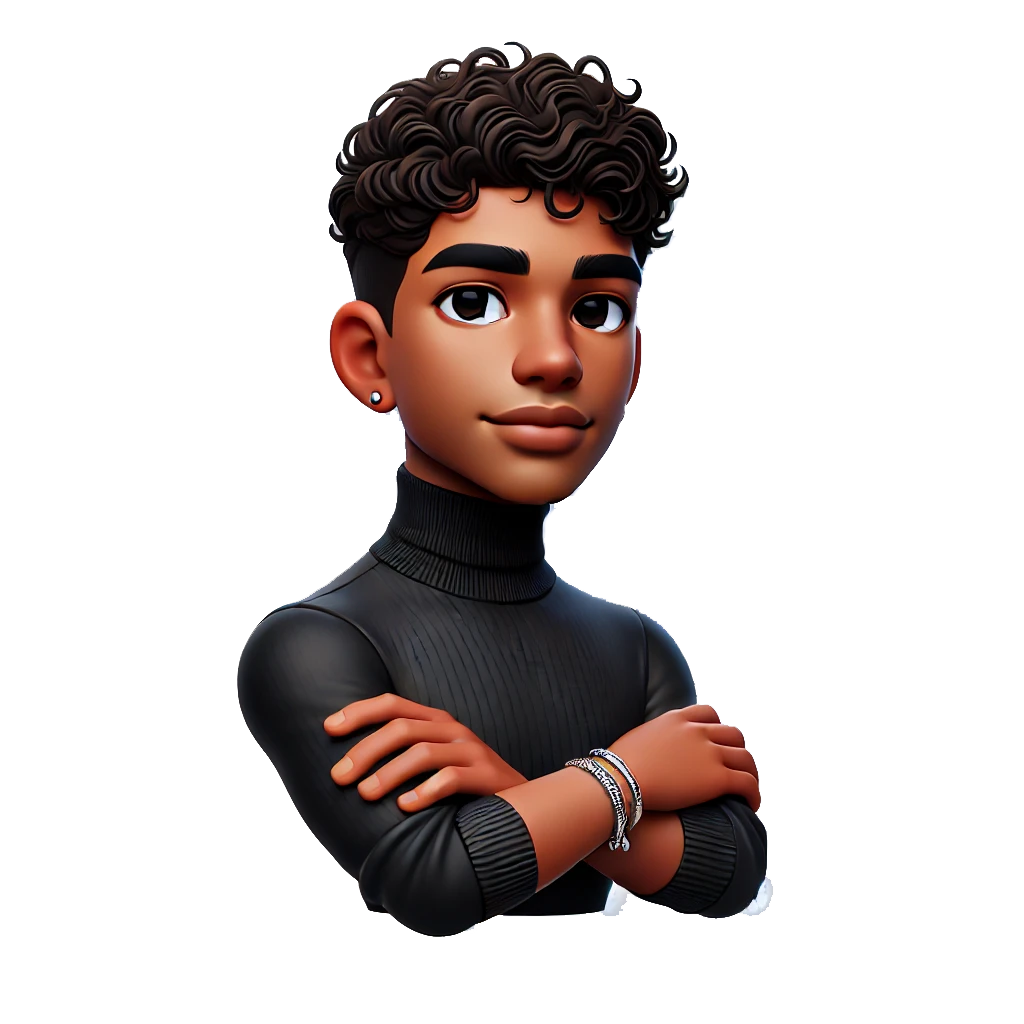
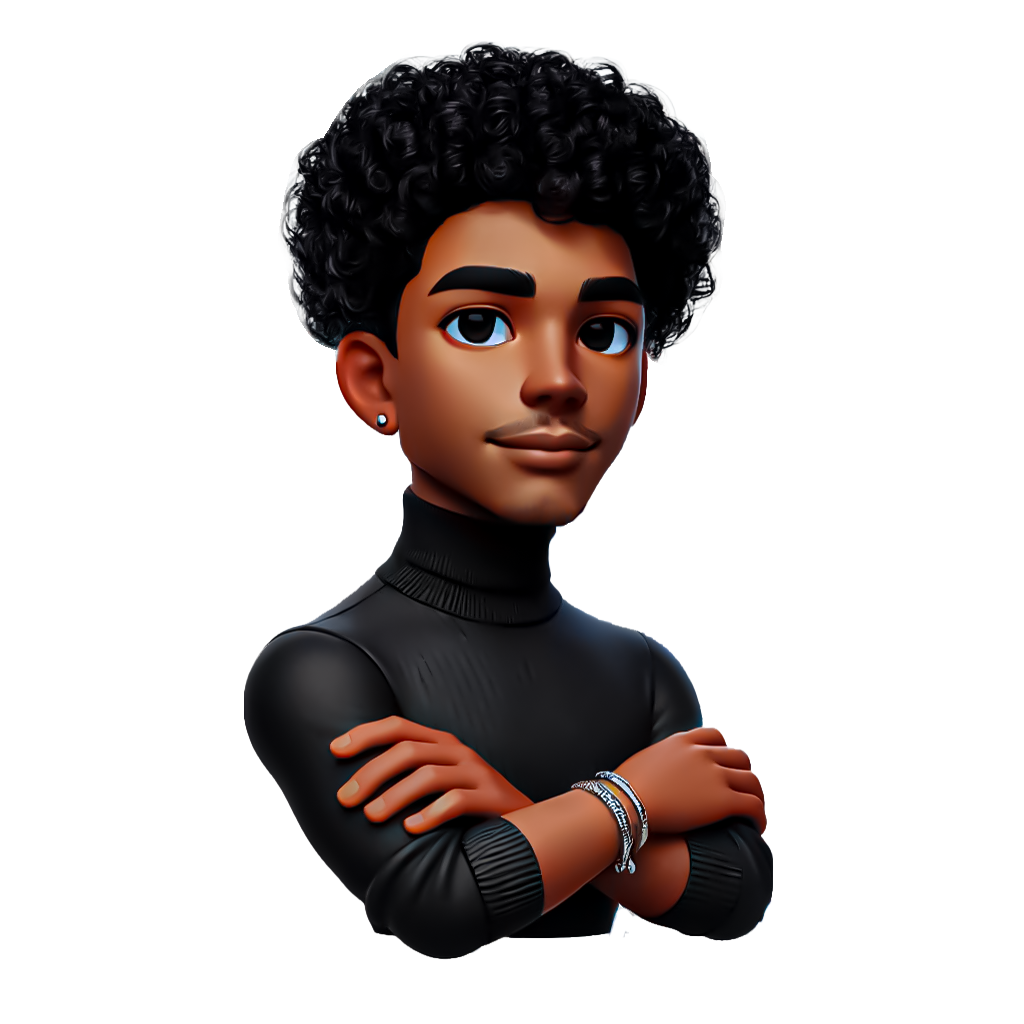
troca de fotos

Changed region(s): [[0.2188, 0.0312, 0.7812, 0.9375], [0.25, 0.7188, 0.2812, 0.7812]]

diff --git a/index.html b/index.html
@@ -46,7 +46,7 @@
     <div class="d-flex flex-column">
 
       <div class="profile">
-        <img src="assets/img/profile-img.jpg" alt="" class="img-fluid rounded-circle">
+        <img src="assets/img/profile2-img.jpg" alt="" class="img-fluid rounded-circle">
         <h1 class="text-light"><a href="index.html">Lázaro Junior</a></h1>
         <div class="social-links mt-3 text-center">
           <a href="https://wa.me/5534984160034" class="whatsapp"><i class="bx bxl-whatsapp"></i></a>
